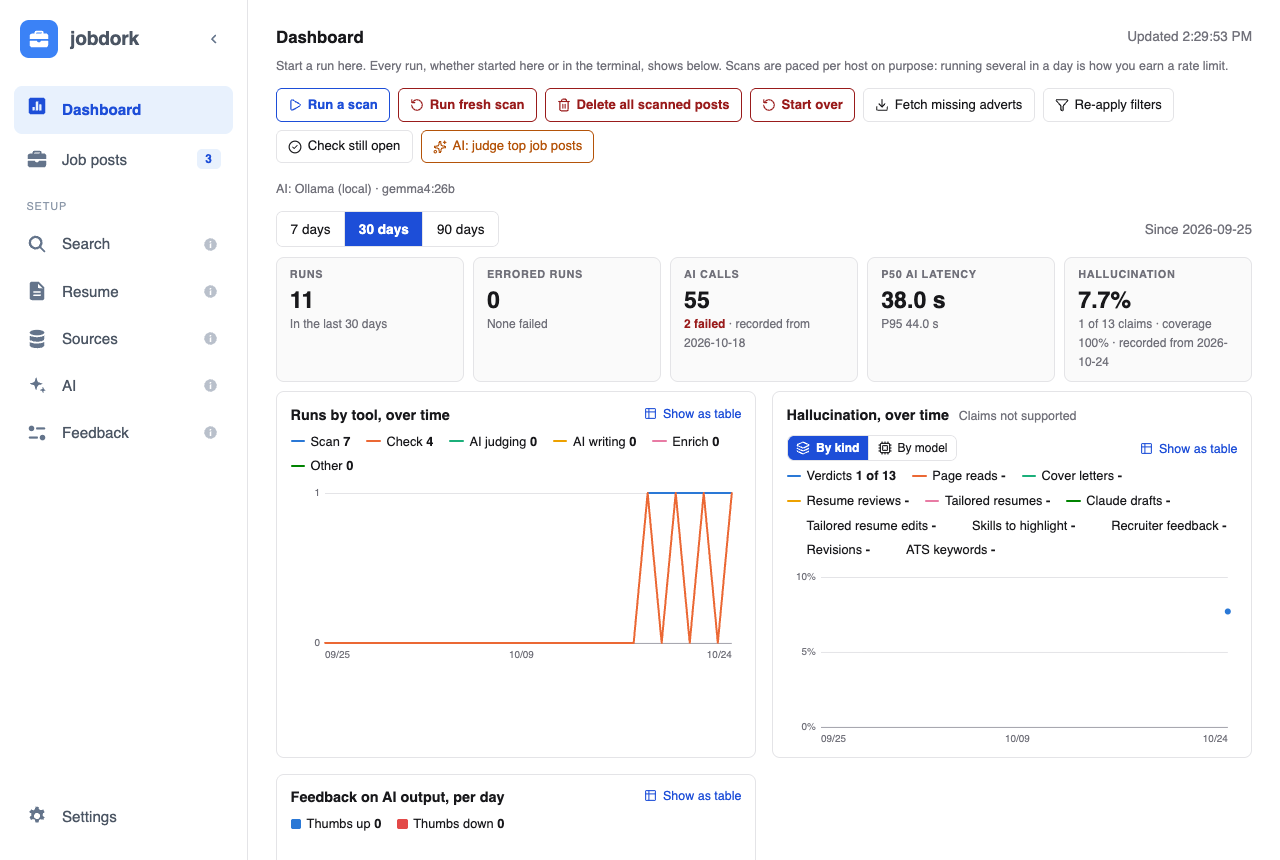
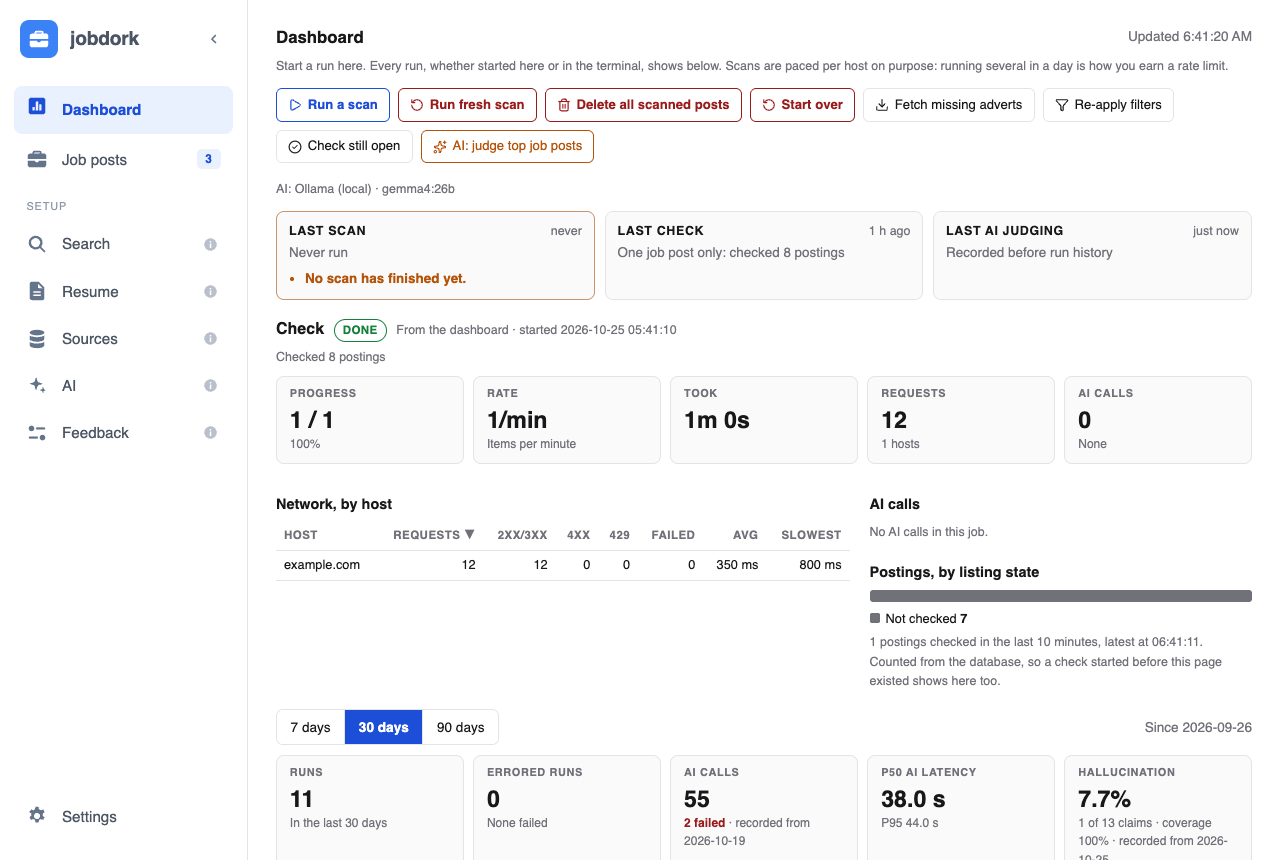
feat: the Dashboard shows the run before the AI charts (see docs/CHANGELOG.md)

diff --git a/jobdork/data/dashboard.html b/jobdork/data/dashboard.html
@@ -815,6 +815,20 @@ main > #view-setup.welcome{max-width:46rem;margin-top:3.5rem}
     <div id="fresh-confirm"></div>
     <div id="start-over-confirm"></div>
 
+    <div class="lastruns" id="last-runs"></div>
+
+    <div id="act-head"></div>
+    <div class="tiles" id="act-tiles"></div>
+    <div id="act-progress"></div>
+    <div id="act-counts"></div>
+
+    <div class="act-grid">
+      <div><h3>Network, by host</h3><div id="act-hosts"></div></div>
+      <div><h3>AI calls</h3><div id="act-ai"></div>
+        <h3 style="margin-top:1.2rem">Postings, by listing state</h3>
+        <div id="act-listing"></div></div>
+    </div>
+
     <div class="metrics" id="metrics">
       <div class="bar" style="margin:.2rem 0 0">
         <div class="seg" id="m-days" role="group" aria-label="Period">
@@ -893,20 +907,6 @@ main > #view-setup.welcome{max-width:46rem;margin-top:3.5rem}
       </div>
       </div>
     </div>
-    <div class="lastruns" id="last-runs"></div>
-
-    <div id="act-head"></div>
-    <div class="tiles" id="act-tiles"></div>
-    <div id="act-progress"></div>
-    <div id="act-counts"></div>
-
-    <div class="act-grid">
-      <div><h3>Network, by host</h3><div id="act-hosts"></div></div>
-      <div><h3>AI calls</h3><div id="act-ai"></div>
-        <h3 style="margin-top:1.2rem">Postings, by listing state</h3>
-        <div id="act-listing"></div></div>
-    </div>
-
     <h3>Log</h3>
     <div class="log" id="act-log" style="height:16rem"></div>
 
@@ -3423,7 +3423,7 @@ function drawActivity(d) {
   const label = {scan: 'Last scan', check: 'Last check', judge: 'Last AI judging'};
   $('last-runs').innerHTML = (d.last_runs || []).map(r => `
     <div class="lastrun ${r.warnings.length ? 'warn' : ''} ${r.id ? 'pick' : ''}"
-      ${r.id ? `onclick="actPick=${r.id};pollActivity()" title="Show this run above"` : ''}>
+      ${r.id ? `onclick="actPick=${r.id};pollActivity()" title="Show this run below"` : ''}>
       <div class="top"><b>${label[r.kind]}</b><span class="ago" title="${esc(r.when.replace('T', ' '))}">${esc(r.ago || 'never')}</span></div>
       <div class="sum">${esc(cap(r.summary))}</div>
       ${r.warnings.length ? `<ul>${r.warnings.map(w => `<li>${esc(w)}</li>`).join('')}</ul>` : ''}

diff --git a/guide/docs/dashboard.md b/guide/docs/dashboard.md
@@ -30,9 +30,24 @@ After a scan, jobdork may offer to remove posts that are old (*risky*,
 *stale* or *ghost*, see [age tags](statuses.md#how-old-a-post-is)) that you
 have not acted on. **Not now** keeps them.
 
+## A run in detail
+
+Under the buttons, a card for the last run of each kind (**Last scan**,
+**Last check**, **Last AI judging**); pick one to show it below. Then that
+run in full:
+
+- **Progress**, **Rate**, **Time left** (or **Took**, once it ends),
+  **Requests** and **AI calls**, as tiles.
+- **Outcomes**: what the run counted: posts kept and dropped, verdicts given.
+- **Network, by host**: each website read, how many requests, and how many
+  were refused or slow.
+- **AI calls**: each model, how many calls and how long they took.
+- **Postings, by listing state**: how many posts are still up, gone or
+  unknown.
+
 ## The numbers
 
-Pick **7 days**, **30 days** or **90 days** to see that period.
+Below the run, the weeks behind it. Pick **7 days**, **30 days** or **90 days** to see that period.
 
 | Tile | Means |
 |---|---|
@@ -77,16 +92,10 @@ Tokens are as each provider counted them, so they are what a paid key is
 billed by. Calls made before jobdork counted tokens show requests but no
 tokens.
 
-## A run in detail
+## Log and history
 
-Further down, the latest run in full:
+At the bottom:
 
-- **Outcomes**: what the run counted: posts kept and dropped, verdicts given.
-- **Network, by host**: each website read, how many requests, and how many
-  were refused or slow.
-- **AI calls**: each model, how many calls and how long they took.
-- **Postings, by listing state**: how many posts are still up, gone or
-  unknown.
 - **Log**: what the run printed, line by line.
 - **Warnings and errors**: the last 7 days' problems, from every run and
   from the app itself. Pick a line to show that run. These are also what the

diff --git a/docs/CHANGELOG.md b/docs/CHANGELOG.md
@@ -6,6 +6,19 @@ it and into an entry when the work is done.
 
 ---
 
+## Changed — 2026-10-25 — The Dashboard shows the run before the AI charts
+
+- The run in progress (or the last one) came after every chart: the
+  period tiles, runs over time, hallucination, feedback, and the whole of
+  AI usage, so a first scan's progress was a long scroll down. Now, under
+  the buttons: the last run of each kind, then the run in full (progress,
+  rate, time left, requests, AI calls, outcomes, network by host, AI calls
+  by model, postings by listing state), then the charts. The log, warnings
+  and errors, and all runs stay at the bottom.
+- A last-run card says it shows its run **below** now. Guide: the
+  Dashboard page follows the same order (a run in detail, the numbers, log
+  and history), with the picture retaken.
+
 ## Added — 2026-10-25 — Search Google Jobs from the job posts list
 
 - **"Not here? Search Google Jobs for …"** under the job posts list, and in
